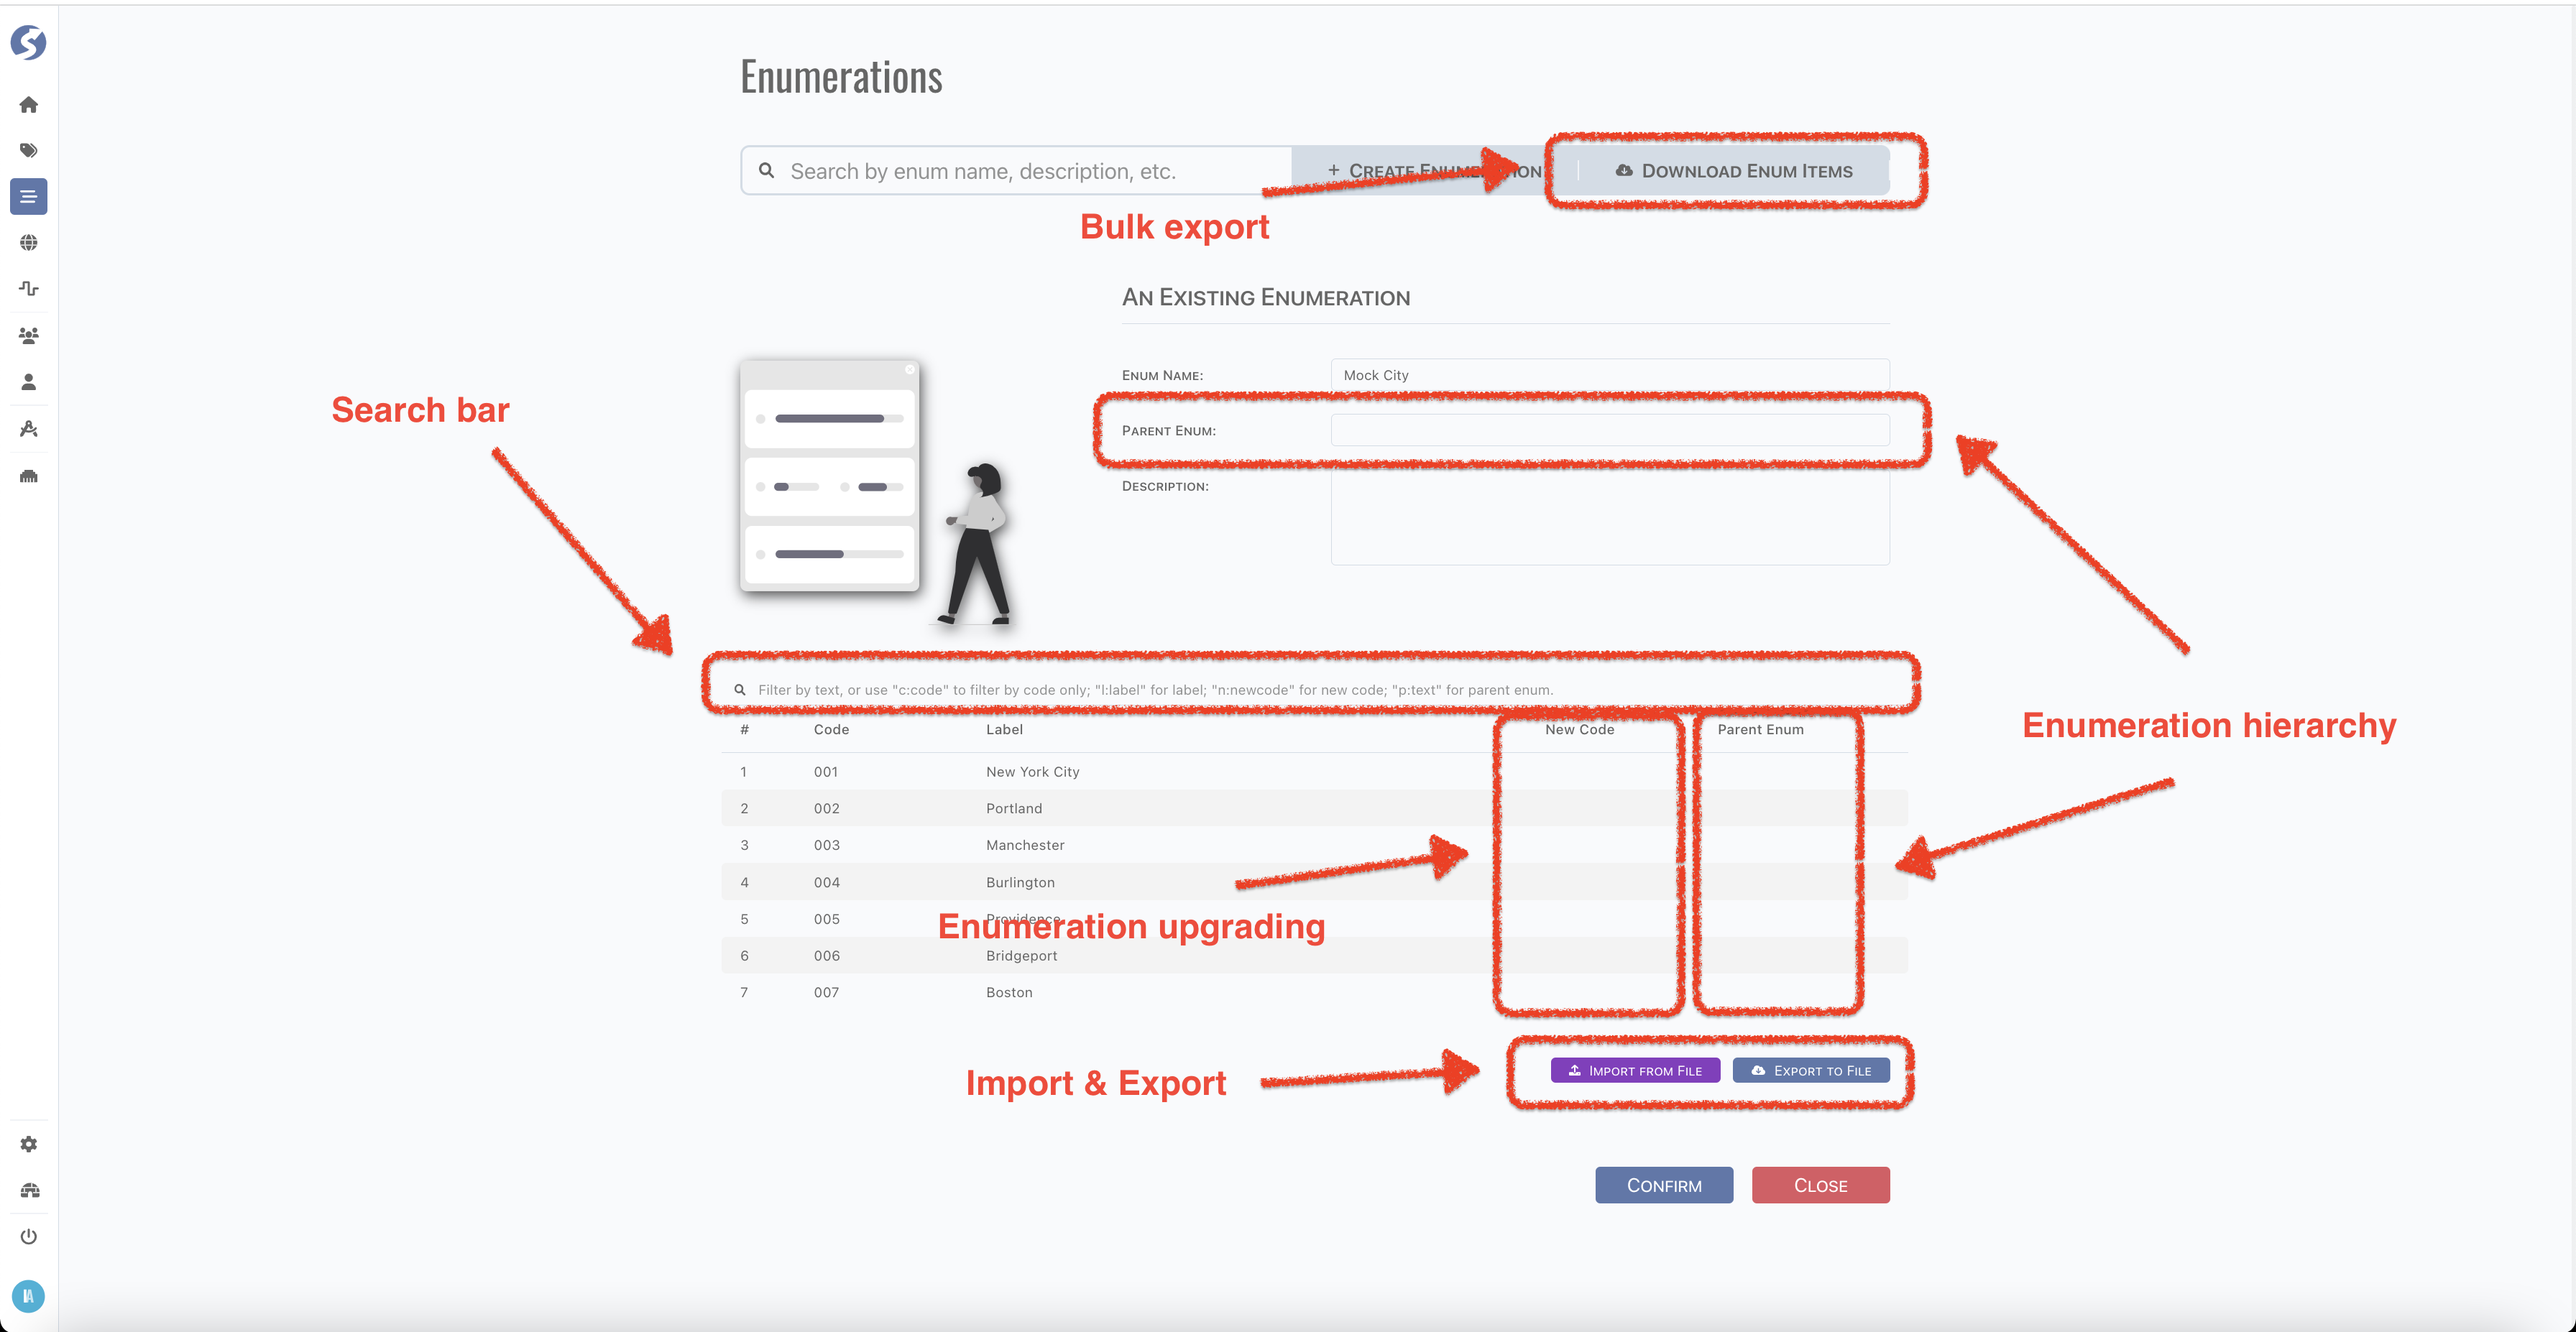
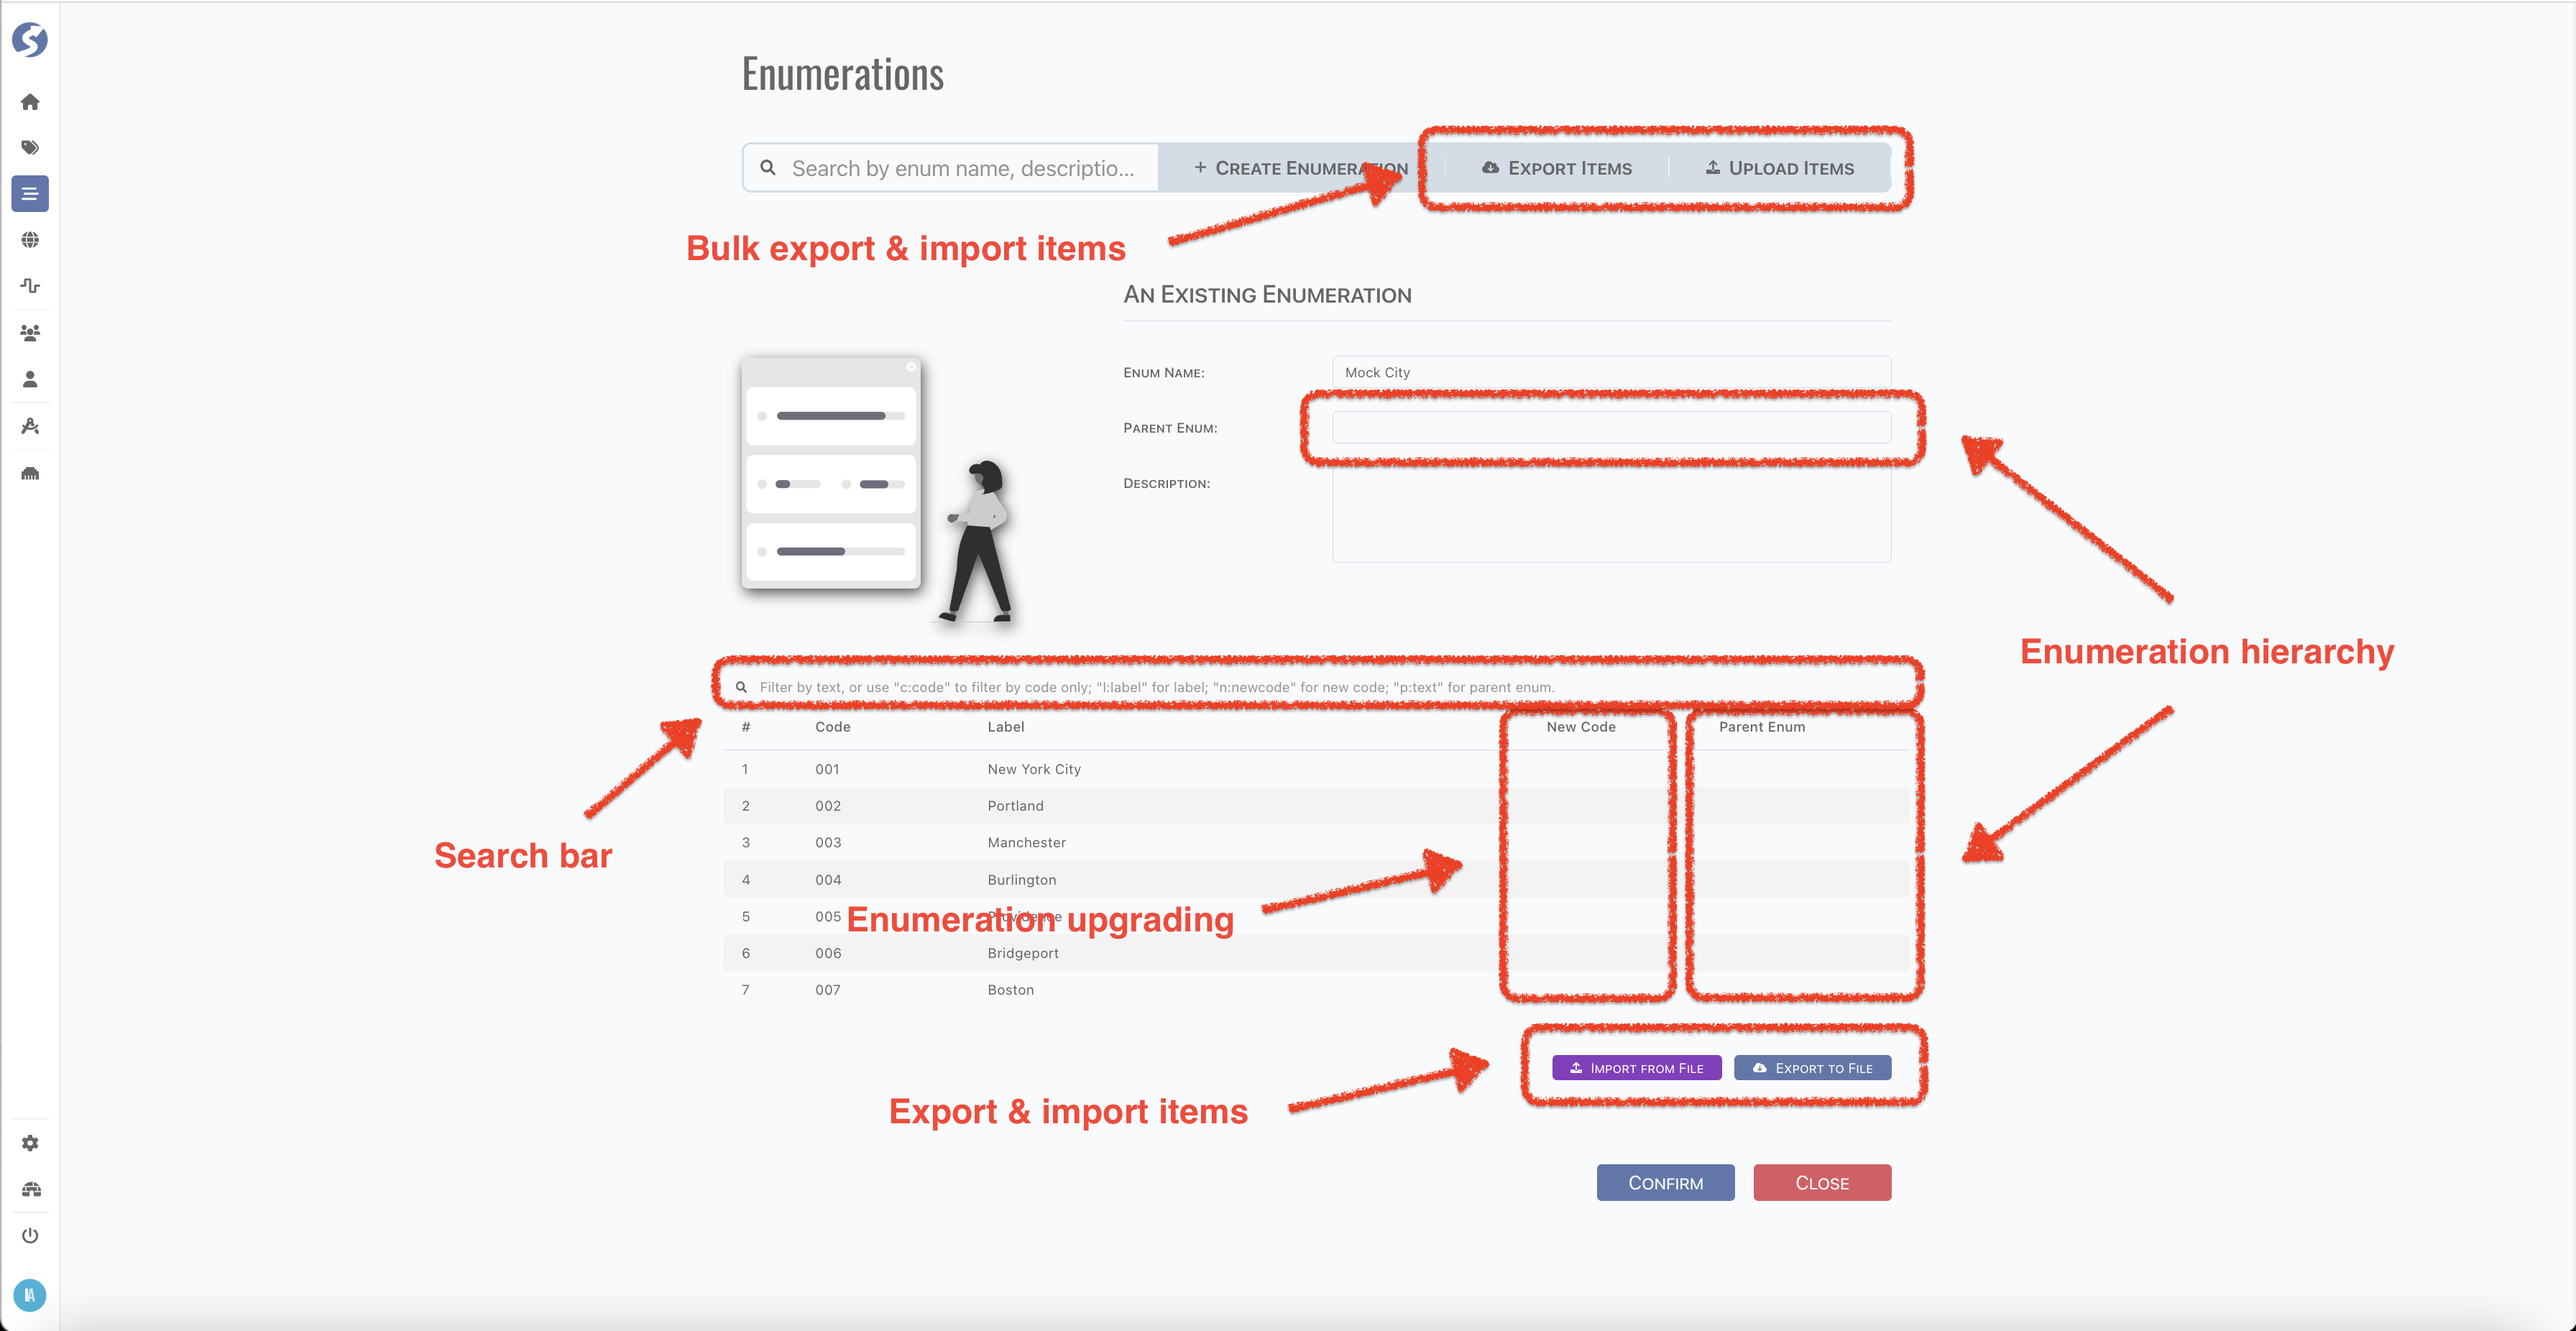
initialize

diff --git a/docs/020-web-client/010-admin/070-enumeration.md b/docs/020-web-client/010-admin/070-enumeration.md
@@ -86,7 +86,7 @@ In this case, use new code to describe the upgrading.
 Upgrading of enumerations stays on definition phase, we haven't started to use it in runtime yet.
 :::
 
-## Bulk Export Items
+## Bulk Export & Import Items
 
 ![Download Enumeration Data](images/enumeration-data.png)
 
@@ -95,6 +95,18 @@ Upgrading of enumerations stays on definition phase, we haven't started to use i
 - Click `Download` button.
 
 A zip file is exported, enumeration items are in csv files in zip.
+
+Bulk import enumeration items use exactly the same format as exported, enumeration must be identified by file name, format as below,
+
+- `id-name.csv`,
+- `id.csv`,
+- `name.csv`.
+
+Note name is case-sensitive.
+
+:::tip  
+`CSV`, `TXT`, `JSON` are supported.
+:::
 
 ## Form Validation
 
